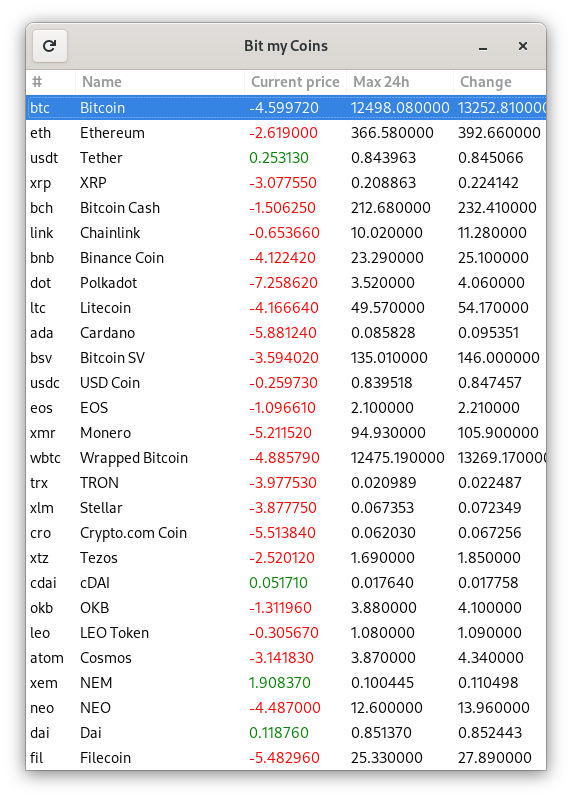
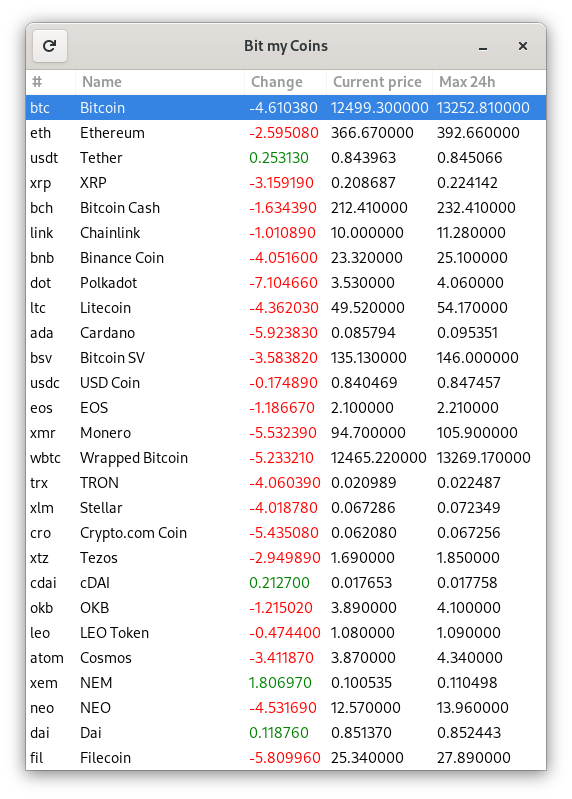
Fix columns order

Changed region(s): [[0.4458, 0.0901, 0.951, 0.9612], [0.4458, 0.9312, 0.5647, 0.9612]]

diff --git a/src/window.py b/src/window.py
@@ -60,7 +60,7 @@ class BitmycoinsWindow(Gtk.Window):
         for currency in currencies_datalist:
             self.currencies_liststore.append(list(currency))
 
-        for i, column_title in enumerate(["#", "Name", "Current price", "Max 24h", "Change"]):
+        for i, column_title in enumerate(["#", "Name", "Change", "Current price", "Max 24h"]):
             '''
             if column_title == "#":
                 renderer = Gtk.CellRendererPixbuf()
